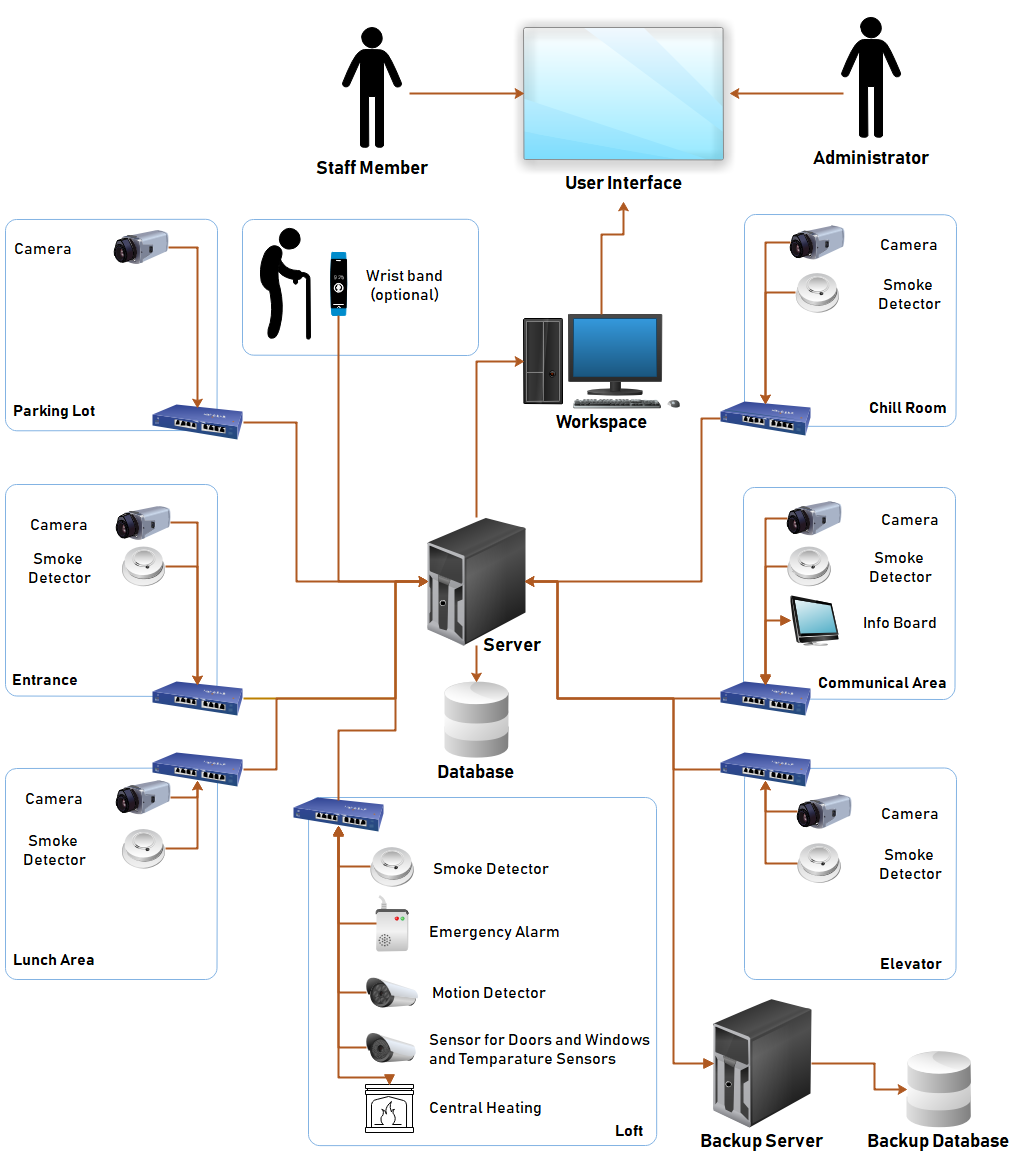
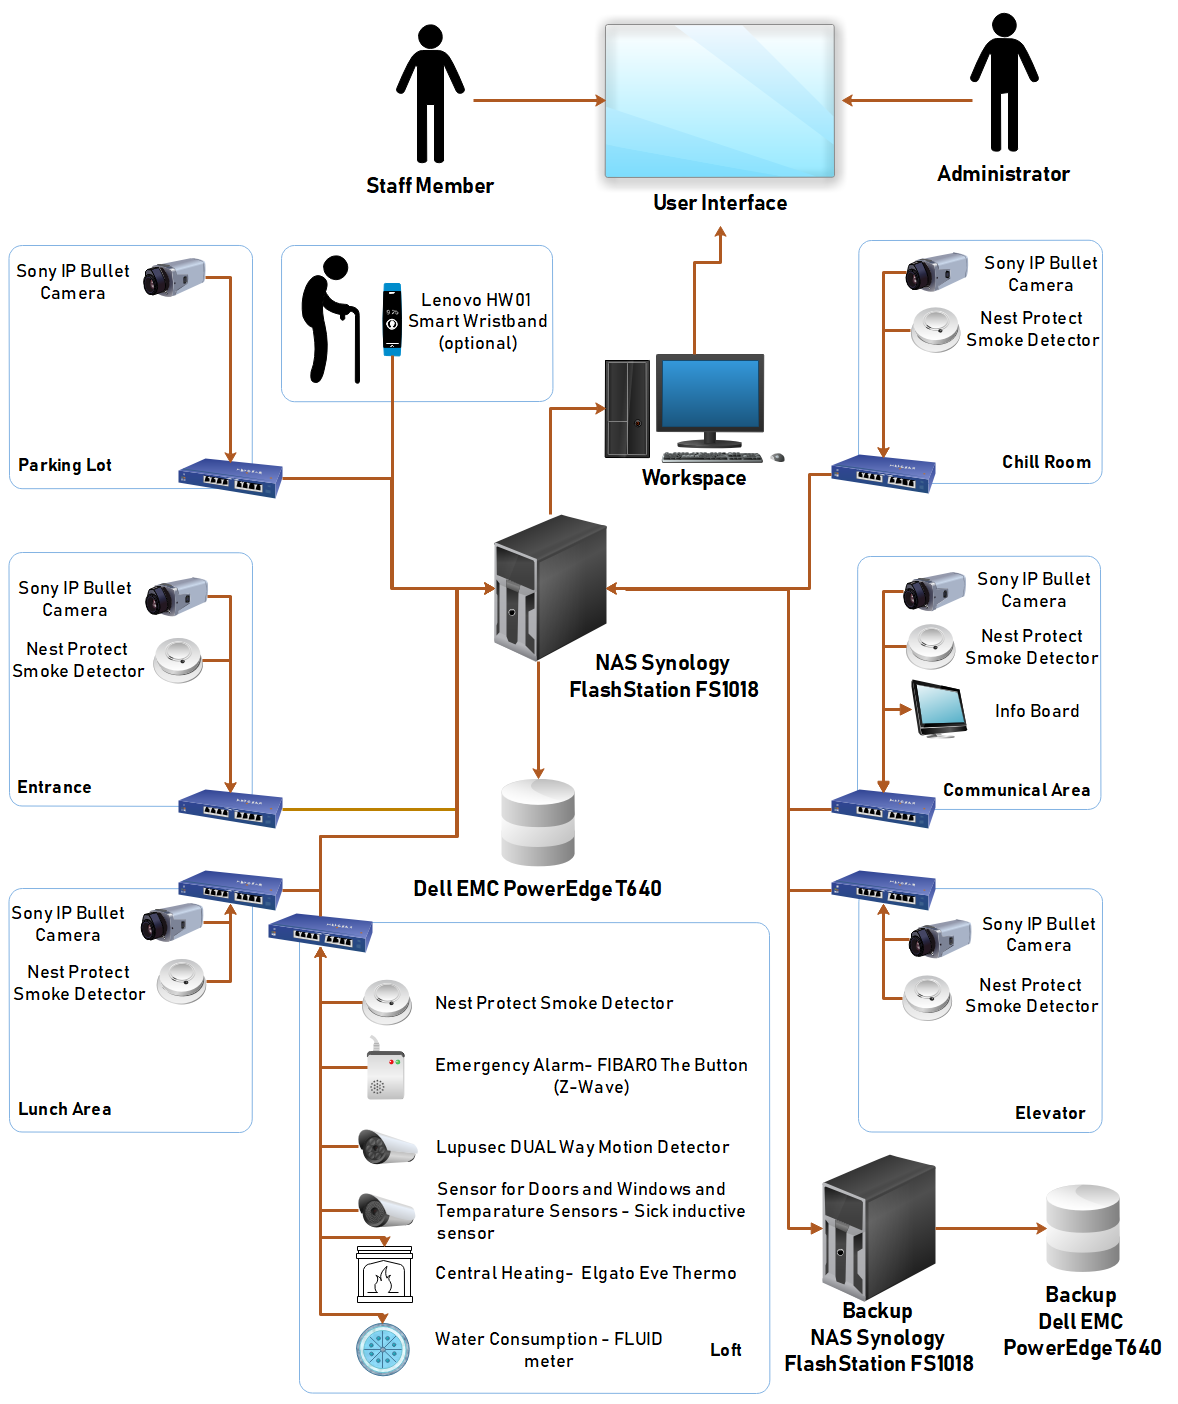
architecture bild beinhaltet jetzt alle namen der devices von toni

diff --git a/notes/architecture.tex b/notes/architecture.tex
@@ -1,8 +1,9 @@
+\section{Basic Concept}
 Based on the requirements and specifications presented in the previous chapters, the architecture was designed as shown in the following figure \ref{architecure}:
 \begin{figure}[H]
 	\centering
 	\includegraphics[width =1.0\textwidth]{images/architecture.PNG}
-	\caption{Basic architecture}
+	\caption{Basic concept}
 	\label{architecure}
 \end{figure}
 The figure shows the central hardware components of the iCare system and the connected devices. The rectangles represent the different rooms of the building. Each room has a HUB that communicates with the central server of the iCare system. In each room, the devices shown in the associated rectangle are installed as part of the iCare system, which communicate with the room's HUB via a wireless connection. This way, the required data reaches the server and is persisted in a database if required. The iCare server uses a RAID 2 backup system with a backup database to ensure the safety of the aquired data. The data can be accessed by employees or the administrator from any workspace using a web user-interface. The authorisation specified in the specification applies to the access to areas which show protected contents. In addition, patients can be given wristbands which monitor their vital functions on a voluntary basis or by order of a doctor. These wristbands communicate with the central server via a wireless connection and transmit the recorded data in real time.
